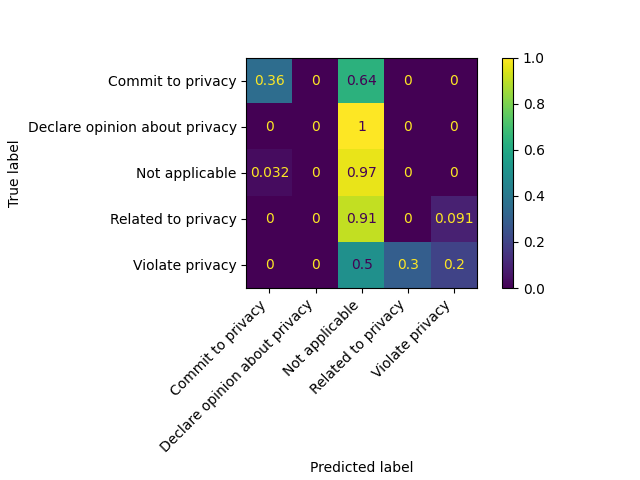
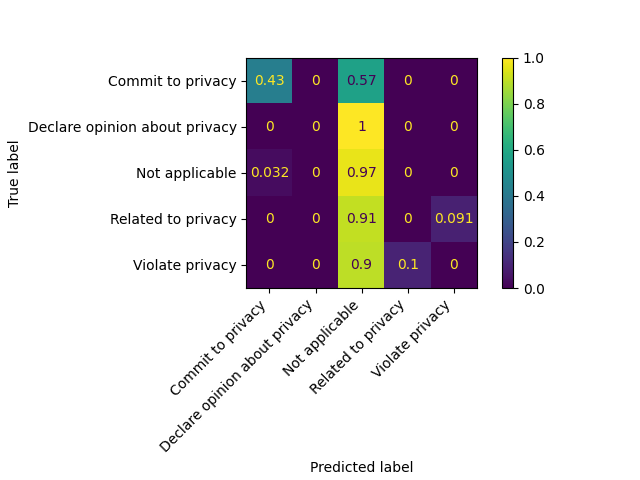
ran bigrams with  lr 0.5 and nest 100 multi hot

Changed region(s): [[0.5312, 0.5, 0.75, 0.625], [0.5625, 0.1562, 0.5938, 0.1875], [0.4062, 0.1562, 0.4375, 0.1875]]

diff --git a/AIclassifier.py b/AIclassifier.py
@@ -57,7 +57,7 @@ def format_sentVector_to_SparseMatrix(vectors_list, dictionary):
         counts = Counter(sent_vector)
         for index, freq in counts.items():
             if len(counts.items()) > 0:
-                sparse_vector[index] = freq/len(sent_vector) # 1 DIFFERENT CONFIGURATION POSSIBILITIES
+                sparse_vector[index] = 1 #freq/len(sent_vector) #  DIFFERENT CONFIGURATION POSSIBILITIES
         if (i == 0): # TO DO: OPTIMIZE, NO NEED TO CHECK THIS EVERY TURN
             matrix_array = [sparse_vector]
         else:
